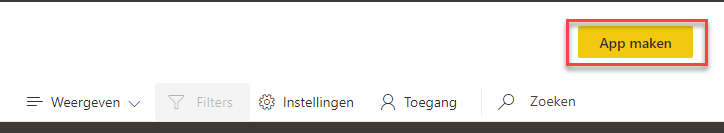
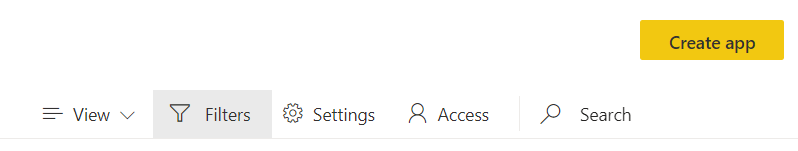
Verbeteringen 2

diff --git a/01-introduction/01-introduction-powerbi-desktop.md b/01-introduction/01-introduction-powerbi-desktop.md
@@ -1,4 +1,4 @@
-# Introductie Power BI
+# 01 Introductie Power BI
 
 ## Power BI Desktop downloaden en de eerste start
 
@@ -6,10 +6,13 @@
 
 Power BI Desktop is gratis te downloaden en op elke Windows-machine installeren. Mocht dat op jouw computer nog niet gedaan zijn, dan kun je Power BI downloaden vanaf de Windows Store, of vanaf [www.powerbi.com](https://powerbi.microsoft.com/nl-nl/). Wanneer het mogelijk is, installeer Power BI Desktop dan vanuit de Windows Store: dit zorgt ervoor dat je automatisch updates e.d. krijgt, en deze niet handmatig hoeft te downloaden.
 
-Wanneer je Power BI wilt installeren vanuit de Windows Store, let dan goed op! Zoals je ziet zijn er namelijk twee edities:
+Wanneer je Power BI wilt installeren vanuit de Windows Store, let dan goed op! Zoals je ziet zijn er namelijk drie edities:
 
-* **Power BI Desktop** is de tool waarmee je rapporten kunt bewerken en vormgeven
 * **Power BI** is een tooltje voor tablets waarmee je rapporten enkel kunt weergeven
+* **Power BI Desktop** is de tool waarmee je rapporten kunt bewerken en vormgeven
+* **Power BI Report Builder** is de tool waarmee je gepagineerde rapporten kunt maken
+
+Kies voor Power BI Desktop.
 
 ![Kies de juiste Power BI Desktop](img/juiste-powerbi-uit-store.png)
 
@@ -47,7 +50,7 @@ Merk de volgende zaken op:
    * **Fields** / **Format**: Hier zie je geen tekst van, maar dit zijn twee icoontjes waarmee je veel eigenschappen van visuals kunt instellen:  
    ![Fields en Format icons](img/fields-format.png)
    * **Drill trough**: Bijzondere drillthrough-filters (meer hierover later)
-4. Uiterst rechts op het scherm (rood omrand) is het **Fields** pane. Ook deze kun je in- en uitklappen. Hier zie je een lijst van alle tabellen, kolommen en measures die in je datamodel aanwezig zijn
+4. Uiterst rechts op het scherm (blauw omrand) is het **Fields** pane. Ook deze kun je in- en uitklappen. Hier zie je een lijst van alle tabellen, kolommen en measures die in je datamodel aanwezig zijn
 5. Binnen de Report-weergave, zie je onderin de verschillende **pagina's** van een rapport
 6. Binnen de Report-weergave is een groot wit vel aanwezig - de **canvas**. Hierop kun je je rapport vormgeven. De zwarte stippellijnen geven de randen aan.
 

diff --git a/05-self-service-reporting/06-sql-inladen.md b/05-self-service-reporting/06-sql-inladen.md
@@ -1,4 +1,4 @@
-# SQL-bronnen inladen
+# 05-02 SQL-bronnen inladen
 
 De CSV-data uit de vorige opdracht was niet heel nuttig: er zat veel technische data in, en miste wat context. Het blijkt echter dat ook deze context niet in het Data Warehouse ontsloten is. En aangezien we wel graag snel enkele inzichten hierover willen, moeten we verder zoeken. We komen uit bij twee operationele bronsystemen, waar de data voor ons beschikbaar is.
 
@@ -8,7 +8,7 @@ We gaan verder met het rapport dat we op een CSV-bestand hebben gebouwd.
 
 Alternatief als je de vorige opdracht niet correct hebt afgerond:
 
-**Open** het bestand [06-solution](https://github.com/vstrien/powerbi-training/raw/master/05-self-service-reporting/06-solution.pbix)
+**Open** het bestand [05-01-Solution](https://github.com/vstrien/powerbi-training/raw/master/05-self-service-reporting/05-01-Solution.pbix)
 
 
 ## Inladen van SQL-data
@@ -71,9 +71,7 @@ Het geeft aan dat tussen deze velden (`'Sales LT Store'[Name]` en `'2014-01'[Fre
 
 ## Oplossing
 
-Hier vind je het eindpunt van deze opdracht:
-
-[07-solution](https://github.com/vstrien/powerbi-training/raw/master/05-self-service-reporting/07-solution.pbix)
+Hier vind je het eindpunt van deze opdracht: [05-02-Solution](https://github.com/vstrien/powerbi-training/raw/master/05-self-service-reporting/05-02-Solution.pbix)
 
 ## Video
 

diff --git a/06-data-modeling-101/07-relaties.md b/06-data-modeling-101/07-relaties.md
@@ -1,4 +1,4 @@
-# Relaties leggen
+# 06-01 Relaties leggen
 
 In de vorige module zagen we dat er een relatie ontbrak tussen de tabel *Store* (waarin de winkels staan) en de tabel *2014-01* (waar de verkopen uit 2014 in aangeleverd zijn).
 
@@ -6,9 +6,9 @@ In de vorige module zagen we dat er een relatie ontbrak tussen de tabel *Store* 
 
 We gaan verder met het rapport dat we op een CSV-bestand en SQL bron hebben gebouwd in de vorige module.
 
-Alternatief als je de vorige opdracht niet correct hebt afgerond:
+Alternatief als je het vorig onderdeel niet correct hebt afgerond:
 
-**Open** het bestand [07-solution](https://github.com/vstrien/powerbi-training/raw/master/05-self-service-reporting/07-solution.pbix)
+**Open** het bestand [05-02-Solution](https://github.com/vstrien/powerbi-training/raw/master/05-self-service-reporting/05-02-Solution.pbix)
 
 ## Aanmaken van relaties
 
@@ -41,9 +41,7 @@ Keer nu terug naar de "report" weergave en verifieer dat de weergave van vrachtk
 
 ## Oplossing
 
-Hier vind je het eindpunt van deze opdracht:
-
-[6.1 solution](https://github.com/vstrien/powerbi-training/raw/master/06-data-modeling-101/6.1%20solution.pbix)
+Hier vind je het eindpunt van deze opdracht: [06-01-Solution](https://github.com/vstrien/powerbi-training/raw/master/06-data-modeling-101/06-01-Solution.pbix)
 
 ## Video
 

diff --git a/06-data-modeling-101/08-opschonen.md b/06-data-modeling-101/08-opschonen.md
@@ -1,14 +1,14 @@
-# Opschonen en introductie calculated columns
+# 06-02 Opschonen en introductie calculated columns
 
 Met alle relaties op de plaats kunnen we allerhande analyses uitvoeren op dit datamodel. Voordat we echter verder gaan maken we een korte pas op de plaats: kunnen we dit model wellicht wat gebruiksvriendelijker inrichten?
 
 ## Voorbereiding
 
-We gaan verder met het rapport uit de vorige module.
+We gaan verder met het rapport uit het vorig onderdeel van deze module.
 
 Alternatief als je de vorige opdracht niet correct hebt afgerond:
 
-**Open** het bestand [6.1 solution](https://github.com/vstrien/powerbi-training/raw/master/06-data-modeling-101/6.1%20solution.pbix)
+**Open** het bestand [06-01-Solution](https://github.com/vstrien/powerbi-training/raw/master/06-data-modeling-101/06-01-Solution.pbix)
 
 
 ## Opschonen van je model en calculated columns
@@ -69,9 +69,7 @@ Zoals je ziet kun je hiermee relatief eenvoudig je model "platslaan" en meer toe
 
 ## Oplossing
 
-Hier vind je het eindpunt van deze opdracht:
-
-[6.2 solution](https://github.com/vstrien/powerbi-training/raw/master/06-data-modeling-101/6.2%20solution.pbix)
+Hier vind je het eindpunt van deze opdracht: [06-02-Solution](https://github.com/vstrien/powerbi-training/raw/master/06-data-modeling-101/06-02-Solution.pbix)
 
 ## Video
 

diff --git a/04-drillthrough/04-drillthrough.md b/04-drillthrough/04-drillthrough.md
@@ -1,4 +1,4 @@
-# Drillthrough
+# 04 Drillthrough
 
 ## Voorbereiding
 
@@ -6,7 +6,7 @@ Ga verder met het bestand dat je in de vorige module hebt gemaakt.
 
 Alternatief als je de vorige opdracht niet correct hebt afgerond:
 
-**Open** het bestand [startpunt-module-4.pbit](https://github.com/vstrien/powerbi-training/raw/master/04-drillthrough/startpunt-module-4.pbit)
+**Open** het bestand [04-Start.pbit](https://github.com/vstrien/powerbi-training/raw/master/04-drillthrough/04-Start.pbit)
 
 Tijdens het openen krijg je wellicht de volgende melding. 
 
@@ -115,11 +115,7 @@ Standaard heeft de drillthrough de naam `Page1 [naam-van-oorspong-rapport]`. Zor
 
 ## Oplossing
 
-Hier vind je het eindpunt van deze opdracht:
-
-[eindpunt-module-4.pbit](https://github.com/vstrien/powerbi-training/raw/master/04-drillthrough/eindpunt-module-4.pbit)
-
-[eindpunt-module-4-drillthrough-report](https://github.com/vstrien/powerbi-training/raw/master/04-drillthrough/eindpunt-module-4-drillthrough-report.pbit)
+Hier vind je de eindpunten van deze opdracht: [04-01-Solution.pbit](https://github.com/vstrien/powerbi-training/raw/master/04-drillthrough/04-01-Solution.pbit) en [04-02-Solution.pbit](https://github.com/vstrien/powerbi-training/raw/master/04-drillthrough/04-02-Solution.pbit)
 
 ## Video
 

diff --git a/08-publishing-and-collaboration-in-workspaces/10-publishing-and-collaboration-in-workspaces.md b/08-publishing-and-collaboration-in-workspaces/10-publishing-and-collaboration-in-workspaces.md
@@ -1,10 +1,10 @@
-# Publiceren en samenwerken in workspaces
+# 08 Publiceren en samenwerken in workspaces
 
 ## Publiceren van rapporten
 
 Wanneer je een rapport *publiceert*, komt deze in de online Power BI portal te staan. Deze kun je vinden op [https://app.powerbi.com](https://app.powerbi.com).
 
-* Open het Power BI template-rapport [**startpunt-module-8.pbit**](https://github.com/vstrien/powerbi-training/raw/master/08-publishing-and-collaboration-in-workspaces/startpunt-module-8.pbit)
+* Open het Power BI template-rapport [08-Start](https://github.com/vstrien/powerbi-training/raw/master/08-publishing-and-collaboration-in-workspaces/08-Start.pbit)
 
 
 De dataset die oorspronkelijk bij het rapport hoorde kun je niet direct benaderen. Daarom krijg je de foutmelding **Unable to connect**
@@ -107,7 +107,7 @@ Om op een nette, eenvoudige en stabiele manier rapporten met eindgebruikers te d
 6. Zodra je een nieuwe(re) versie van een rapport wilt publiceren, publiceer je de app opnieuw. De eindgebruiker krijgt nu automatisch de nieuwste versie van het rapport.
 
 * Open nu de werkruimte die je eerder hebt aangemaakt
-* Rechtsklik bovenin op de knop "App maken"
+* Rechtsklik bovenin op de knop Create App
 
 ![Publish app button](img/05-publish-app.png)
 

diff --git a/03-visuals-and-interaction/03-visuals-and-interaction.md b/03-visuals-and-interaction/03-visuals-and-interaction.md
@@ -1,4 +1,4 @@
-# Visuals en interactie
+# 03 Visuals en interactie
 
 Binnen Power BI zitten veel mogelijkheden om de weergave en werking van je rapporten aan te passen. In deze module willen we hier iets verder naar kijken aan de hand van de volgende punten:
 
@@ -10,7 +10,7 @@ Binnen Power BI zitten veel mogelijkheden om de weergave en werking van je rappo
 
 ## Voorbereiding
 
-**Open** het bestand [startpunt-module-3.pbit](https://github.com/vstrien/powerbi-training/raw/master/03-visuals-and-interaction/startpunt-module-3.pbit)
+**Open** het bestand [03-Start.pbit](https://github.com/vstrien/powerbi-training/raw/master/03-visuals-and-interaction/03-Solution.pbit)
 
 Tijdens het openen krijg je wellicht de volgende melding. 
 
@@ -141,7 +141,7 @@ Nu zorgt een *drilldown* niet meer automatisch voor een filtering binnen een and
 
 ## Oplossing
 
-Hier vind je het eindpunt van deze opdracht: [eindpunt-module-3.pbit](https://github.com/vstrien/powerbi-training/raw/master/03-visuals-and-interaction/eindpunt-module-3.pbit)
+Hier vind je het eindpunt van deze opdracht: [03-Solution](https://github.com/vstrien/powerbi-training/raw/master/03-visuals-and-interaction/03-Solution.pbit)
 
 ## Video
 

diff --git a/09-dax/11-calc-columns.md b/09-dax/11-calc-columns.md
@@ -9,7 +9,7 @@ Ga verder met het bestand dat je in de vorige module hebt gebruikt.
 
 Alternatief als je de vorige opdracht niet hebt afgerond:
 
-Open het Power BI template-rapport [**startpunt-module-8.pbit**](https://github.com/vstrien/powerbi-training/raw/master/08-publishing-and-collaboration-in-workspaces/startpunt-module-8.pbit)
+Open het Power BI template-rapport [08-Start](https://github.com/vstrien/powerbi-training/raw/master/08-publishing-and-collaboration/08-Start.pbit)
 
 De dataset die oorspronkelijk bij het rapport hoorde kun je niet direct benaderen. Daarom krijg je de foutmelding **Unable to connect**
 
@@ -65,9 +65,7 @@ Na de aanpassing van deze definities en codes, is het tijd om wat zaken aan te g
 
 ## Oplossing
 
-Hier vind je het eindpunt van deze opdracht:
-
-[9 solution](https://github.com/vstrien/powerbi-training/raw/master/08-publishing-and-collaboration-in-workspaces/9%20solution.pbix)
+Hier vind je het eindpunt van deze opdracht: [09-Solution](https://github.com/vstrien/powerbi-training/raw/master/09-dax/09-Solution.pbix)
 
 ## Video
 

diff --git a/05-self-service-reporting/05-csv-inladen.md b/05-self-service-reporting/05-csv-inladen.md
@@ -1,4 +1,4 @@
-# CSV-data inladen, introductie Power Query en eerste visualisatie
+# 05-01 CSV-data inladen, introductie Power Query en eerste visualisatie
 
 Binnen het AdventureWorks Data Warehouse is veel data aanwezig, maar niet alle data. Het blijkt dat voor specifieke historische verkoopcijfers uit 2014 er nog extra data uit een oud systeem zijn, die niet in het Data Warehouse aanwezig zijn. Nu heeft de beheer-afdeling CSV-exports hiervan gemaakt, in de hoop dat jij deze inzichtelijk kunt maken in een rapport.
 
@@ -114,9 +114,7 @@ Hieronder zie je een mogelijke uitkomst.
 
 ## Oplossing
 
-Hier vind je het eindpunt van deze opdracht:
-
-[06-solution](https://github.com/vstrien/powerbi-training/raw/master/05-self-service-reporting/06-solution.pbix)
+Hier vind je het eindpunt van deze opdracht: [05-01-Solution](https://github.com/vstrien/powerbi-training/raw/master/05-self-service-reporting/05-01-Solution.pbix)
 
 ## Video
 

diff --git a/07-power-query-gui/09-power-query.md b/07-power-query-gui/09-power-query.md
@@ -1,4 +1,4 @@
-# Power Query via de GUI
+# 07 Power Query via de GUI
 
 In [module 6](../05-self-service-reporting/05-csv-inladen.md) hebben we al kort gekeken naar Power Query: hoe het venster opgebouwd is, en hoe er achter de schermen code opgebouwd wordt.
 
@@ -68,9 +68,7 @@ Tip: Je zult hier de "split column" functionaliteit regelmatig nodig hebben
 
 ## Oplossing
 
-Hier vind je het eindpunt van deze opdracht:
-
-[Power Query Solution](https://github.com/vstrien/powerbi-training/raw/master/07-power-query-gui/Power%20Query%20Solution.pbix)
+Hier vind je het eindpunt van deze opdracht: [07-Solution](https://github.com/vstrien/powerbi-training/raw/master/07-power-query-gui/07-Solution.pbix)
 
 ## Video
 

diff --git a/02-reporting-on-dataset/02-reporting-on-dataset.md b/02-reporting-on-dataset/02-reporting-on-dataset.md
@@ -1,4 +1,4 @@
-# Rapporteren op de dataset: Power BI als rapportageschil
+# 02 Rapporteren op de dataset: Power BI als rapportageschil
 
 Power BI kan als volledige "self-service" tool gebruikt worden, maar ook inprikken op bestaande "datasetsen".
 
@@ -164,7 +164,7 @@ Het eindresultaat kan er bijvoorbeeld als volgt uit zien:
 
 ## Oplossing
 
-Hier vind je het eindpunt van deze opdracht: [Solution](https://github.com/vstrien/powerbi-training/raw/master/02-reporting-on-dataset/Solution.pbit)
+Hier vind je het eindpunt van deze opdracht: [02-Solution](https://github.com/vstrien/powerbi-training/raw/master/02-reporting-on-dataset/02-Solution.pbit)
 
 ## Video
 
